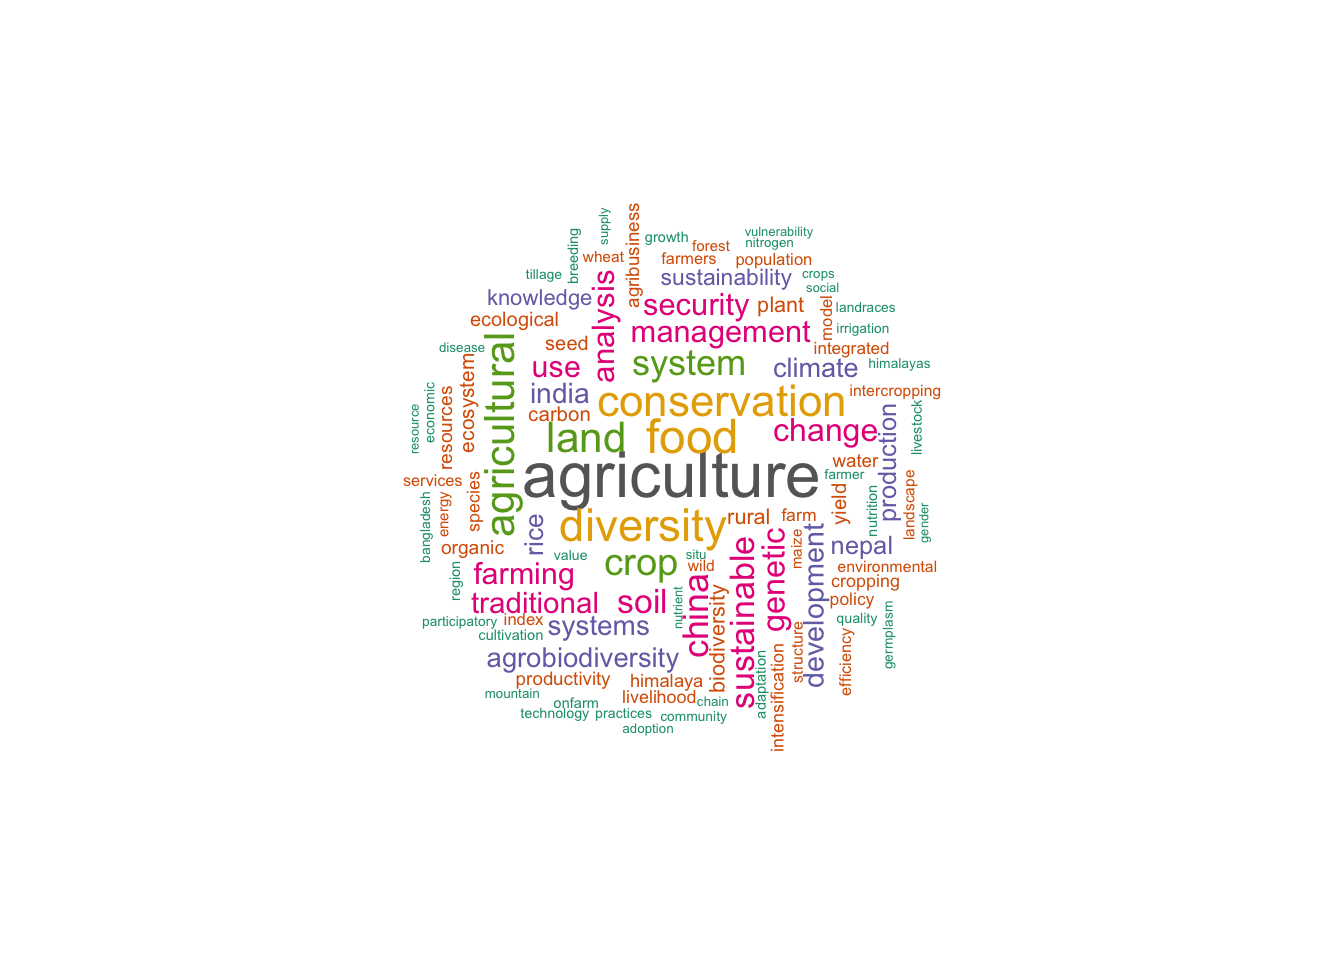
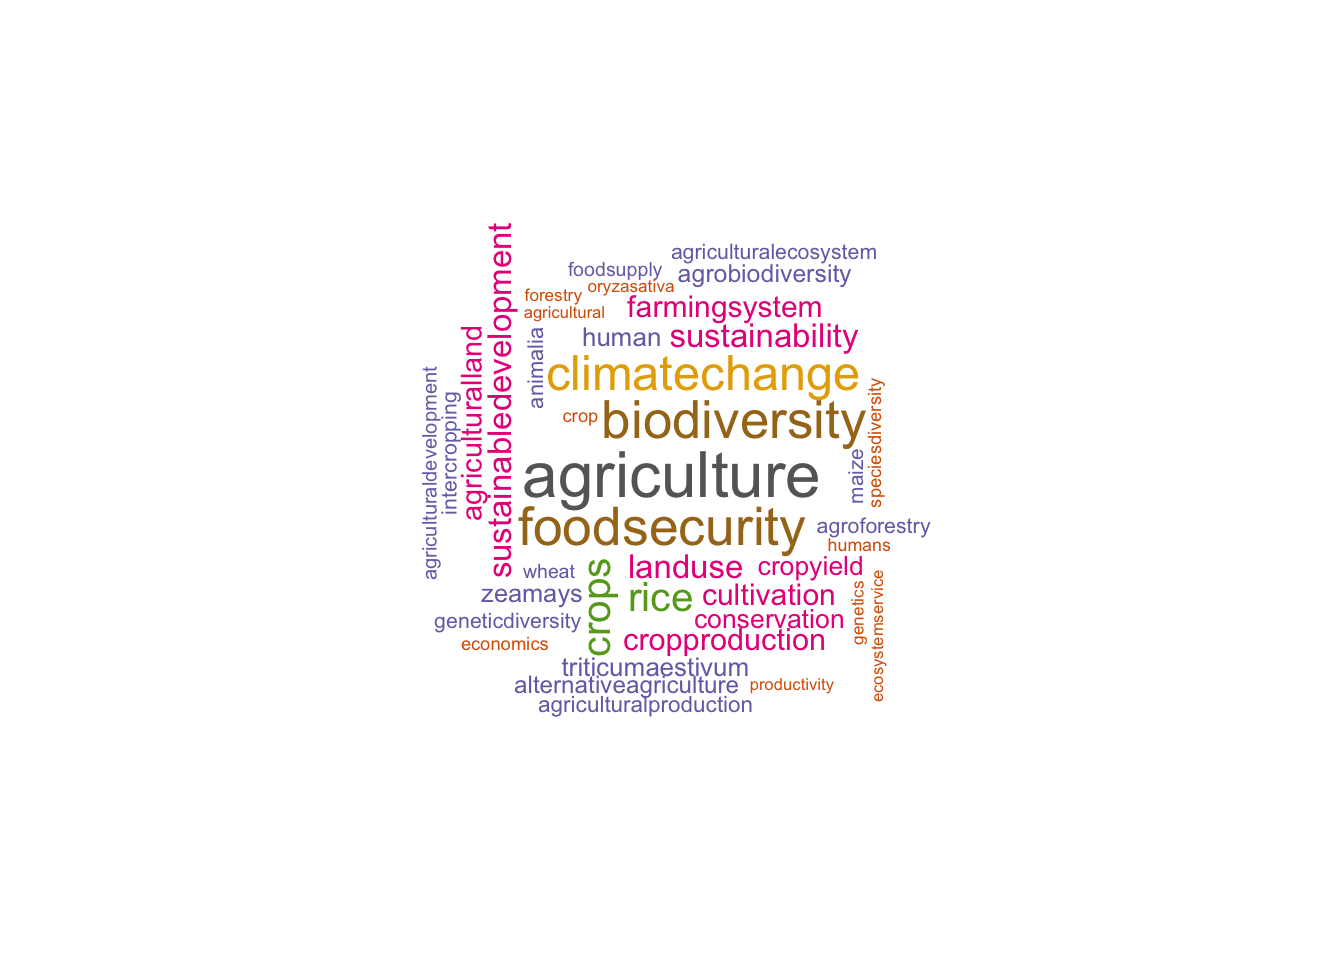
total keywords - summary

Changed region(s): [[0.2812, 0.2188, 0.6875, 0.7812]]

diff --git a/docs/synthesis_HKH.html b/docs/synthesis_HKH.html
@@ -397,7 +397,7 @@ div.tocify {
 <div class="tab-content">
 <div id="summary" class="tab-pane fade in active">
 <p>
-<strong>Last updated:</strong> 2020-06-08
+<strong>Last updated:</strong> 2020-06-09
 </p>
 <p>
 <strong>Checks:</strong> <span class="glyphicon glyphicon-ok text-success" aria-hidden="true"></span> 6 <span class="glyphicon glyphicon-exclamation-sign text-danger" aria-hidden="true"></span> 1
@@ -488,16 +488,16 @@ This reproducible <a href="http://rmarkdown.rstudio.com">R Markdown</a> analysis
 <div class="panel panel-default">
 <div class="panel-heading">
 <p class="panel-title">
-<a data-toggle="collapse" data-parent="#workflowr-checks" href="#strongRepositoryversionstrongahrefhttpsgithubcomKaranSShakyamomagservicestree7c50825f57e06188570eff6c6901d06b5fcc6f42targetblank7c50825a"> <span class="glyphicon glyphicon-ok text-success" aria-hidden="true"></span> <strong>Repository version:</strong> <a href="https://github.com/KaranSShakya/mom-ag_services/tree/7c50825f57e06188570eff6c6901d06b5fcc6f42" target="_blank">7c50825</a> </a>
+<a data-toggle="collapse" data-parent="#workflowr-checks" href="#strongRepositoryversionstrongahrefhttpsgithubcomKaranSShakyamomagservicestree413832c9da97b27a4c922493135b5e6a6070c4bctargetblank413832ca"> <span class="glyphicon glyphicon-ok text-success" aria-hidden="true"></span> <strong>Repository version:</strong> <a href="https://github.com/KaranSShakya/mom-ag_services/tree/413832c9da97b27a4c922493135b5e6a6070c4bc" target="_blank">413832c</a> </a>
 </p>
 </div>
[2 lines of base64/hex data omitted]
 <div class="panel-body">
 <p>
 Great! You are using Git for version control. Tracking code development and connecting the code version to the results is critical for reproducibility.
 </p>
 <p>
-The results in this page were generated with repository version <a href="https://github.com/KaranSShakya/mom-ag_services/tree/7c50825f57e06188570eff6c6901d06b5fcc6f42" target="_blank">7c50825</a>. See the <em>Past versions</em> tab to see a history of the changes made to the R Markdown and HTML files.
+The results in this page were generated with repository version <a href="https://github.com/KaranSShakya/mom-ag_services/tree/413832c9da97b27a4c922493135b5e6a6070c4bc" target="_blank">413832c</a>. See the <em>Past versions</em> tab to see a history of the changes made to the R Markdown and HTML files.
 </p>
 <p>
 Note that you need to be careful to ensure that all relevant files for the analysis have been committed to Git prior to generating the results (you can use <code>wflow_publish</code> or <code>wflow_git_commit</code>). workflowr only checks the R Markdown file, but you know if there are other scripts or data files that it depends on. Below is the status of the Git repository when the results were generated:
@@ -512,6 +512,8 @@ Ignored files:
 
 Unstaged changes:
     Modified:   analysis/synthesis_HKH.Rmd
+    Modified:   code/syn_3-combined.R
+    Modified:   code/syn_7-sankey_table.R
 
 </code></pre>
 <p>
@@ -550,6 +552,40 @@ Message
 </tr>
 </thead>
 <tbody>
+<tr>
+<td>
+Rmd
+</td>
+<td>
+<a href="https://github.com/KaranSShakya/mom-ag_services/blob/413832c9da97b27a4c922493135b5e6a6070c4bc/analysis/synthesis_HKH.Rmd" target="_blank">413832c</a>
+</td>
+<td>
+KaranSShakya
+</td>
+<td>
+2020-06-08
+</td>
+<td>
+sankey text correction
+</td>
+</tr>
+<tr>
+<td>
+html
+</td>
+<td>
+<a href="https://rawcdn.githack.com/KaranSShakya/mom-ag_services/413832c9da97b27a4c922493135b5e6a6070c4bc/docs/synthesis_HKH.html" target="_blank">413832c</a>
+</td>
+<td>
+KaranSShakya
+</td>
+<td>
+2020-06-08
+</td>
+<td>
+sankey text correction
+</td>
+</tr>
 <tr>
 <td>
 Rmd
@@ -1305,6 +1341,44 @@ Creating new synthesis page
 </div>
 </div>
 </div>
+<p><img src="figure/synthesis_HKH.Rmd/unnamed-chunk-1-1.png" width="672" style="display: block; margin: auto;" /></p>
+<p>
+<button type="button" class="btn btn-default btn-xs btn-workflowr btn-workflowr-fig" data-toggle="collapse" data-target="#fig-unnamed-chunk-1-1">
+Past versions of unnamed-chunk-1-1.png
+</button>
+</p>
+<div id="fig-unnamed-chunk-1-1" class="collapse">
+<div class="table-responsive">
+<table class="table table-condensed table-hover">
+<thead>
+<tr>
+<th>
+Version
+</th>
+<th>
+Author
+</th>
+<th>
+Date
+</th>
+</tr>
+</thead>
+<tbody>
+<tr>
+<td>
+<a href="https://github.com/KaranSShakya/mom-ag_services/blob/eca107f9b67909f058494d2e84a7c5a3943d3b8c/docs/figure/synthesis_HKH.Rmd/unnamed-chunk-1-1.png" target="_blank">eca107f</a>
+</td>
+<td>
+KaranSShakya
+</td>
+<td>
+2020-05-30
+</td>
+</tr>
+</tbody>
+</table>
+</div>
+</div>
 <p>I have revised this website as well as rechecked my analysis to ensure that the results and analysis are as written. Please look at the steps I took and the recommended conclusion from each analysis.</p>
 <p><a href="synthesis_HKH-omit.html">Removed Author and Index Seperate Tables Link</a></p>
 <div id="summary-statistics" class="section level2">
@@ -1343,70 +1417,38 @@ Creating new synthesis page
 </ul>
 <hr />
 </div>
+<div id="total-keywords" class="section level2">
+<h2>Total Keywords</h2>
+<p>Here is the un-edited top 20 frequency table for all the keywords. A full version is in the excel file in the sheet <strong>All Keywords</strong>. I would remove geographic keywords as well as irrelevant keywords such as “article”.</p>
+<pre><code># A tibble: 20 x 2
+   Combine                      n
+   &lt;chr&gt;                    &lt;int&gt;
+ 1 &quot;&quot;                         352
+ 2 &quot;china&quot;                    172
+ 3 &quot;india&quot;                    116
+ 4 &quot;agriculture&quot;              104
+ 5 &quot;nepal&quot;                     91
+ 6 &quot;foodsecurity&quot;              86
+ 7 &quot;biodiversity&quot;              85
+ 8 &quot;climatechange&quot;             78
+ 9 &quot;crops&quot;                     64
+10 &quot;rice&quot;                      64
+11 &quot;asia&quot;                      59
+12 &quot;landuse&quot;                   51
+13 &quot;sustainability&quot;            51
+14 &quot;sustainabledevelopment&quot;    51
+15 &quot;eurasia&quot;                   50
+16 &quot;cropproduction&quot;            47
+17 &quot;cultivation&quot;               46
+18 &quot;farmingsystem&quot;             46
+19 &quot;agriculturalland&quot;          44
+20 &quot;article&quot;                   44</code></pre>
+<hr />
+</div>
 <div id="word-cloud-combined-keywords" class="section level2">
 <h2>Word Cloud (Combined Keywords)</h2>
 <p>Word Clouds are interesting and useful visual tool that can be used to highlight key words. What a world cloud does is look into the frequency of key words. If a key word is used a lot, it will be bigger in the diagram.</p>
 <p>I can still work on the visuals for this Word Cloud, so let me know if I need to edit this.</p>
-<p><img src="figure/synthesis_HKH.Rmd/unnamed-chunk-2-1.png" width="672" style="display: block; margin: auto;" /></p>
-<p>
-<button type="button" class="btn btn-default btn-xs btn-workflowr btn-workflowr-fig" data-toggle="collapse" data-target="#fig-unnamed-chunk-2-1">
-Past versions of unnamed-chunk-2-1.png
-</button>
-</p>
-<div id="fig-unnamed-chunk-2-1" class="collapse">
-<div class="table-responsive">
-<table class="table table-condensed table-hover">
-<thead>
-<tr>
-<th>
-Version
-</th>
-<th>
-Author
-</th>
-<th>
-Date
-</th>
-</tr>
-</thead>
-<tbody>
-<tr>
-<td>
-<a href="https://github.com/KaranSShakya/mom-ag_services/blob/e2e5f08e634de1a6fd67cf77259b6c96eec0dd8e/docs/figure/synthesis_HKH.Rmd/unnamed-chunk-2-1.png" target="_blank">e2e5f08</a>
-</td>
-<td>
-KaranSShakya
-</td>
-<td>
-2020-06-08
-</td>
-</tr>
-<tr>
-<td>
-<a href="https://github.com/KaranSShakya/mom-ag_services/blob/ae0a9f8c034e3f9c1dfa02dd8a80d04e95a2a0c3/docs/figure/synthesis_HKH.Rmd/unnamed-chunk-2-1.png" target="_blank">ae0a9f8</a>
-</td>
-<td>
-KaranSShakya
-</td>
-<td>
-2020-06-07
-</td>
-</tr>
-<tr>
-<td>
-<a href="https://github.com/KaranSShakya/mom-ag_services/blob/2a585ab14dfb1d9ae9d56353b895540c99d01555/docs/figure/synthesis_HKH.Rmd/unnamed-chunk-2-1.png" target="_blank">2a585ab</a>
-</td>
-<td>
-KaranSShakya
-</td>
-<td>
-2020-06-06
-</td>
-</tr>
-</tbody>
-</table>
-</div>
-</div>
 <pre><code>NULL</code></pre>
 <hr />
 </div>
@@ -1960,8 +2002,6 @@ KaranSShakya
 <div id="journal-article-summary" class="section level2">
 <h2>Journal Article Summary</h2>
 <p>Here is the unformatted summary of all the Journal article from 1995 to 2020. I have chosen top 17 because after 17, there are a lot of article with frequency 7.</p>
-<pre><code>New names:
-* `` -&gt; ...41</code></pre>
 <pre><code># A tibble: 17 x 2
    Journal                                  Count
    &lt;chr&gt;                                    &lt;int&gt;
@@ -2006,8 +2046,8 @@ attached base packages:
 [1] stats     graphics  grDevices utils     datasets  methods   base     
 
 other attached packages:
- [1] splitstackshape_1.4.8 alluvial_0.1-2        ggalluvial_0.11.3    
- [4] gt_0.2.1              SnowballC_0.7.0       wordcloud_2.6        
+ [1] gt_0.2.1              splitstackshape_1.4.8 alluvial_0.1-2       
+ [4] ggalluvial_0.11.3     SnowballC_0.7.0       wordcloud_2.6        
  [7] RColorBrewer_1.1-2    tm_0.7-7              NLP_0.2-0            
 [10] readxl_1.3.1          forcats_0.5.0         stringr_1.4.0        
 [13] dplyr_0.8.5           purrr_0.3.4           readr_1.3.1          
